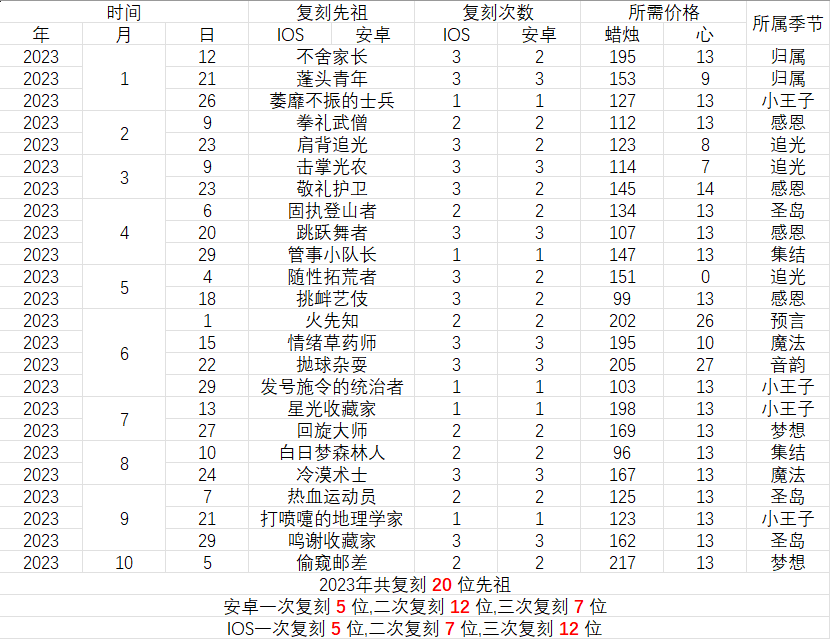
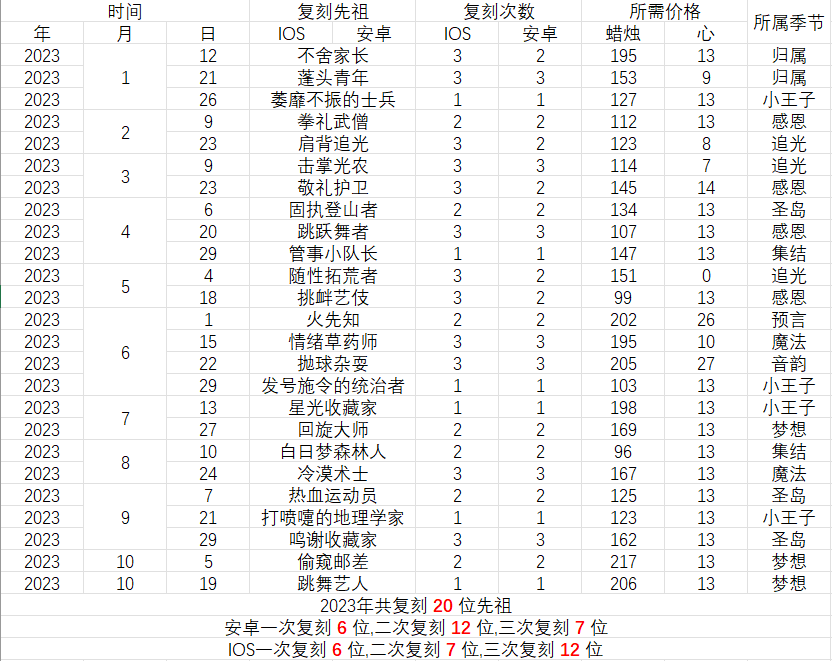
* 2023/10/20

diff --git a/apps/「光遇」先祖多久未复刻查询.js b/apps/「光遇」先祖多久未复刻查询.js
@@ -58,7 +58,7 @@ const 梦想 = [
   { name: '偷窥邮差', date: new Date('2023-10-09')},
   { name: '熊抱雪人', date: new Date('2022-02-28')},
   { name: '回旋大师', date: new Date('2023-07-31')},
-  //{ name: '跳舞艺人', date: new Date('')}
+  { name: '跳舞艺人', date: new Date('2023-10-23')}
 ];
 const 集结 = [
   { name: '白日梦森林人', date: new Date('2023-08-14')},
